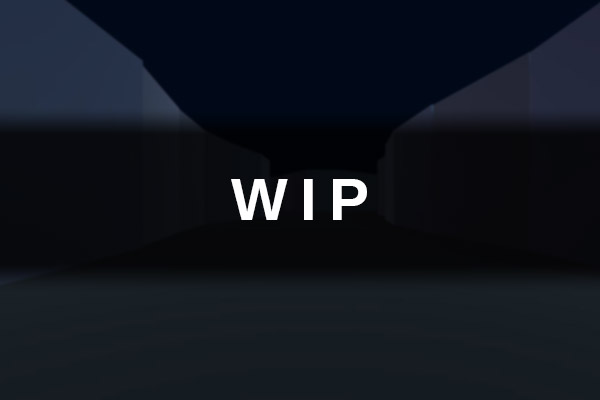
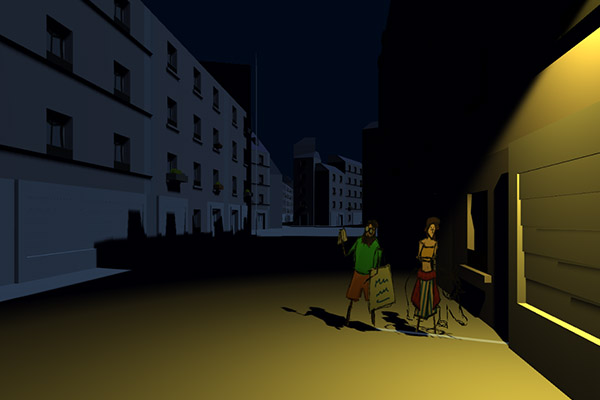
Changed interactive fiction images

diff --git a/_portfolio/zh2019-interactive_fiction.html b/_portfolio/zh2019-interactive_fiction.html
@@ -10,6 +10,12 @@ sidebar:
   - title: "Status"
     text: "Unreleased - In pre-production"
 ---
-An interactive fiction project, telling the story of a woman walking home through Paris late at night.
+An interactive fiction project, telling the story of a woman walking home through Paris late at night. The characters encountered and conversations she has with them will be accompanied by 19th century romantic music.
 <br><br>
-The characters encountered and conversations she has with them will be accompanied by 19th century romantic music.
+Currently in development on my free time, it features procedural generation of 3D buildings and streets :
+<br><br>
+<img src="/assets/images/procgenbv2.gif" alt="Early procedural generation of buildings">
+<br><br>
+The prototype currently looks like this :
+<br><br>
+<img src="/assets/images/proto2.gif" alt="Current state of the prototype">

diff --git a/_portfolio/zi2019-visualiser.html b/_portfolio/zi2019-visualiser.html
@@ -13,5 +13,6 @@ sidebar:
 ---
 TopographX is a software for iEEG data visualization. It can process and display formatted data extracted from electrodes located in patients' brains and create a 3D representation of it. 
 <br><br>
-It can also create files that can be read by a web player, in order to share results and act as figures in research papers and theses. An example of it can be found <a href="https://daphnerr.github.io/statchansActive50ms/index.html">HERE</a><br>
+It can also create files that can be read by a web player, in order to share results and act as figures in research papers and theses. An example of it can be found <a href="https://daphnerr.github.io/statchansActive50ms/index.html">HERE</a>
+<br><br>
 More info and downloads available here : <a href="https://github.com/DaphneRR/TopographX">Github page</a>.
